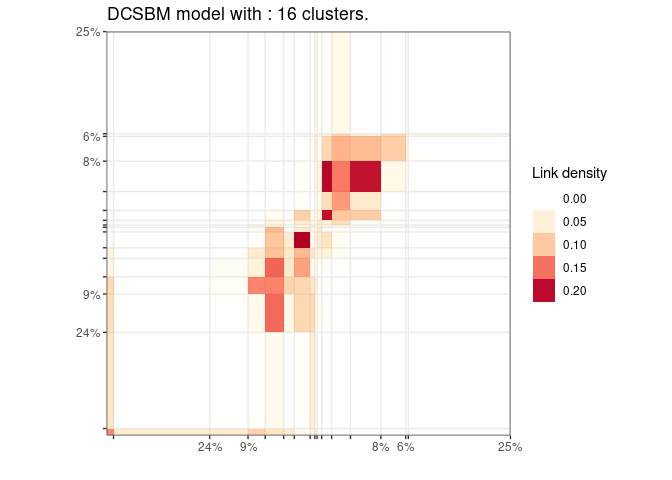
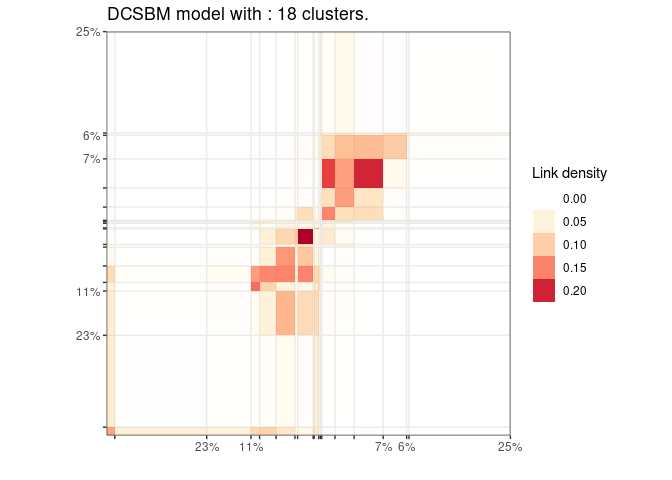
gmm models cleaning

diff --git a/README.md b/README.md
@@ -28,7 +28,8 @@ The following generative models are available currently :
     (**experimental**, see `` ?`multsbm-class` ``),
   - Degree Corrected Latent Block Models (see `` ?`co_dcsbm-class` ``),
   - Mixture of Multinomials (see `` ?`mm-class` ``),
-  - Gaussian Mixture Model (**experimental**, see `` ?`gmm-class` ``),
+  - Gaussian Mixture Model (**experimental**, see `` ?`gmm-class` `` and
+    `` ?`diaggmm-class` ``),
   - Multivariate Mixture of Gaussian Regression Model (**experimental**,
     see `` ?`mvmreg-class` ``).
 
@@ -70,17 +71,10 @@ library(greed)
 data(Jazz)
 sol=greed(Jazz)
 #> ------- undirected DCSBM model fitting ------
-#> ################# Generation  1: best solution with an ICL of -28629 and 17 clusters #################
-#> ################# Generation  2: best solution with an ICL of -28586 and 14 clusters #################
-#> ################# Generation  3: best solution with an ICL of -28583 and 13 clusters #################
-#> ################# Generation  4: best solution with an ICL of -28578 and 13 clusters #################
-#> ################# Generation  5: best solution with an ICL of -28573 and 12 clusters #################
-#> ################# Generation  6: best solution with an ICL of -28573 and 12 clusters #################
-#> ################# Generation  7: best solution with an ICL of -28571 and 13 clusters #################
-#> ################# Generation  8: best solution with an ICL of -28569 and 12 clusters #################
-#> ################# Generation  9: best solution with an ICL of -28569 and 12 clusters #################
+#> ################# Generation  1: best solution with an ICL of -28607 and 15 clusters #################
+#> ################# Generation  2: best solution with an ICL of -28607 and 15 clusters #################
 #> ------- Final clustering -------
-#> ICL clustering with a DCSBM model, 11 clusters and an icl of -28564.
+#> ICL clustering with a DCSBM model, 11 clusters and an icl of -28560.
 ```
 
 Here Jazz is a square sparse matrix and a `` ?`dcsbm-class` `` model
@@ -121,18 +115,18 @@ plan(multisession)
 data("Blogs")
 sol=greed(Blogs$X)
 #> ------- directed DCSBM model fitting ------
-#> ################# Generation  1: best solution with an ICL of -84492 and 17 clusters #################
-#> ################# Generation  2: best solution with an ICL of -84301 and 18 clusters #################
-#> ################# Generation  3: best solution with an ICL of -84275 and 18 clusters #################
-#> ################# Generation  4: best solution with an ICL of -84210 and 17 clusters #################
-#> ################# Generation  5: best solution with an ICL of -84160 and 17 clusters #################
-#> ################# Generation  6: best solution with an ICL of -84152 and 20 clusters #################
-#> ################# Generation  7: best solution with an ICL of -84121 and 18 clusters #################
-#> ################# Generation  8: best solution with an ICL of -84117 and 18 clusters #################
-#> ################# Generation  9: best solution with an ICL of -84102 and 17 clusters #################
-#> ################# Generation 10: best solution with an ICL of -84102 and 17 clusters #################
+#> ################# Generation  1: best solution with an ICL of -84434 and 17 clusters #################
+#> ################# Generation  2: best solution with an ICL of -84316 and 18 clusters #################
+#> ################# Generation  3: best solution with an ICL of -84214 and 17 clusters #################
+#> ################# Generation  4: best solution with an ICL of -84186 and 18 clusters #################
+#> ################# Generation  5: best solution with an ICL of -84154 and 18 clusters #################
+#> ################# Generation  6: best solution with an ICL of -84139 and 18 clusters #################
+#> ################# Generation  7: best solution with an ICL of -84139 and 18 clusters #################
+#> ################# Generation  8: best solution with an ICL of -84129 and 19 clusters #################
+#> ################# Generation  9: best solution with an ICL of -84124 and 19 clusters #################
+#> ################# Generation 10: best solution with an ICL of -84124 and 19 clusters #################
 #> ------- Final clustering -------
-#> ICL clustering with a DCSBM model, 16 clusters and an icl of -84086.
+#> ICL clustering with a DCSBM model, 18 clusters and an icl of -84089.
 plot(sol)
 ```
 

diff --git a/NEWS.md b/NEWS.md
@@ -1,6 +1,9 @@
 # greed 0.5.1
 
-* Correction of compilation problems on solaris.
+* New Gaussian mixture model diaggmm for diagonal mixture models
+* New generic function coef to extract MAP estimate of the models parameters
+* New plot function pairs to explore gmm fit results
 * Better input checking for mvmreg and gmm
 * Better input checking for greed_cond
+* Correction of compilation problems on solaris
 * Added a `NEWS.md` file to track changes to the package.
